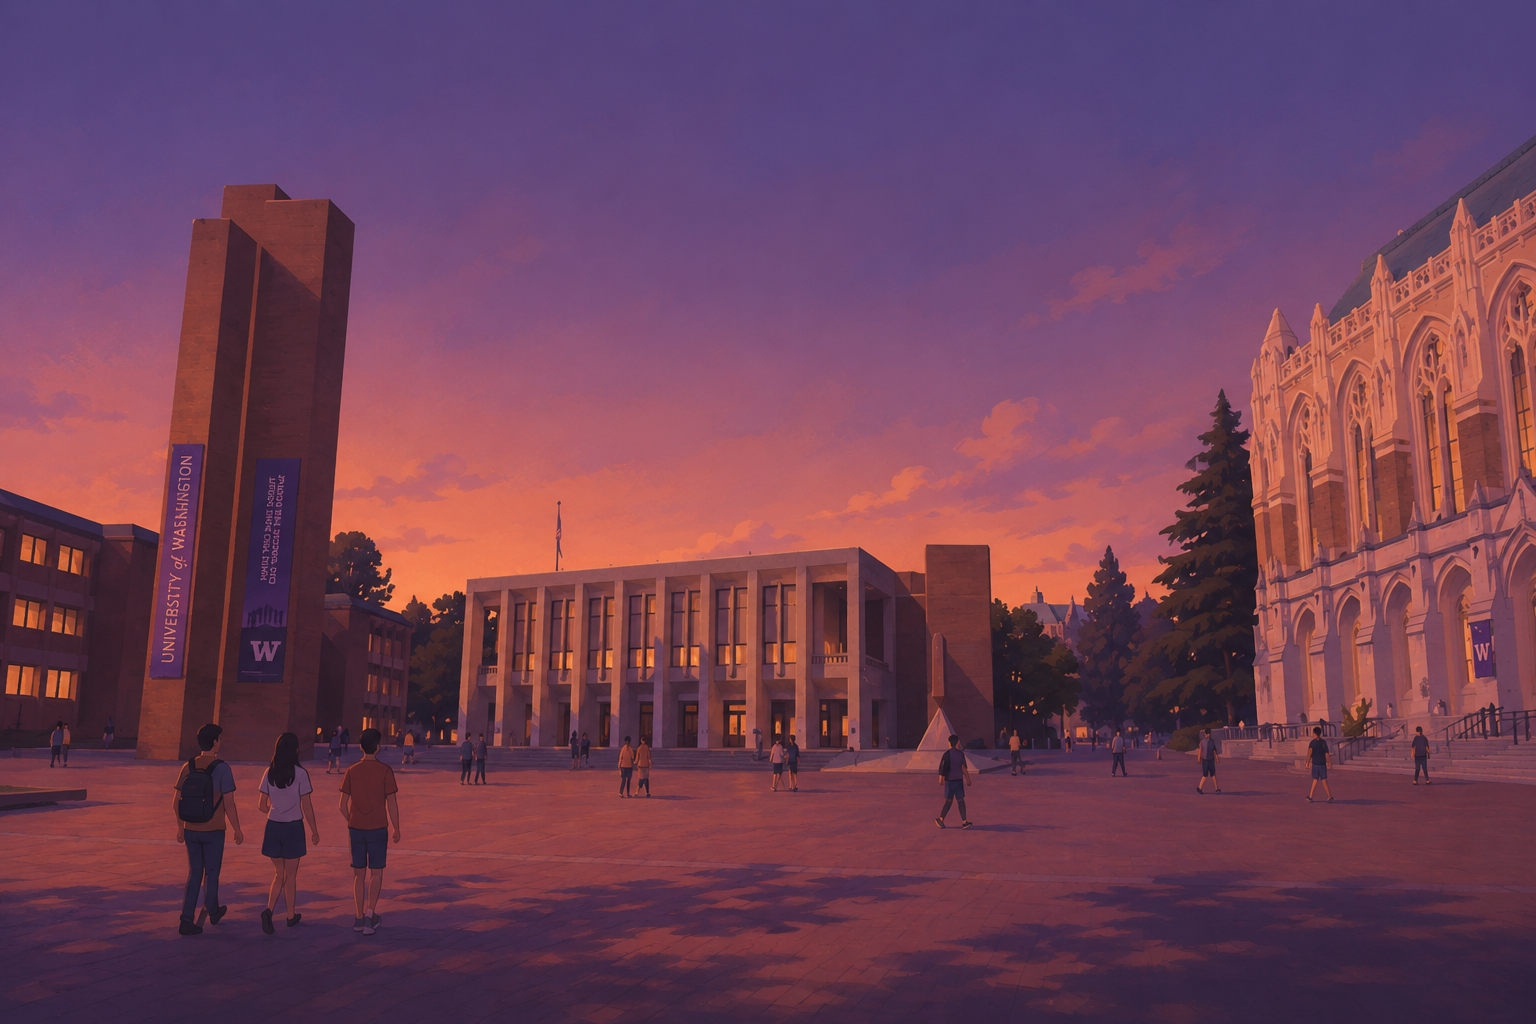
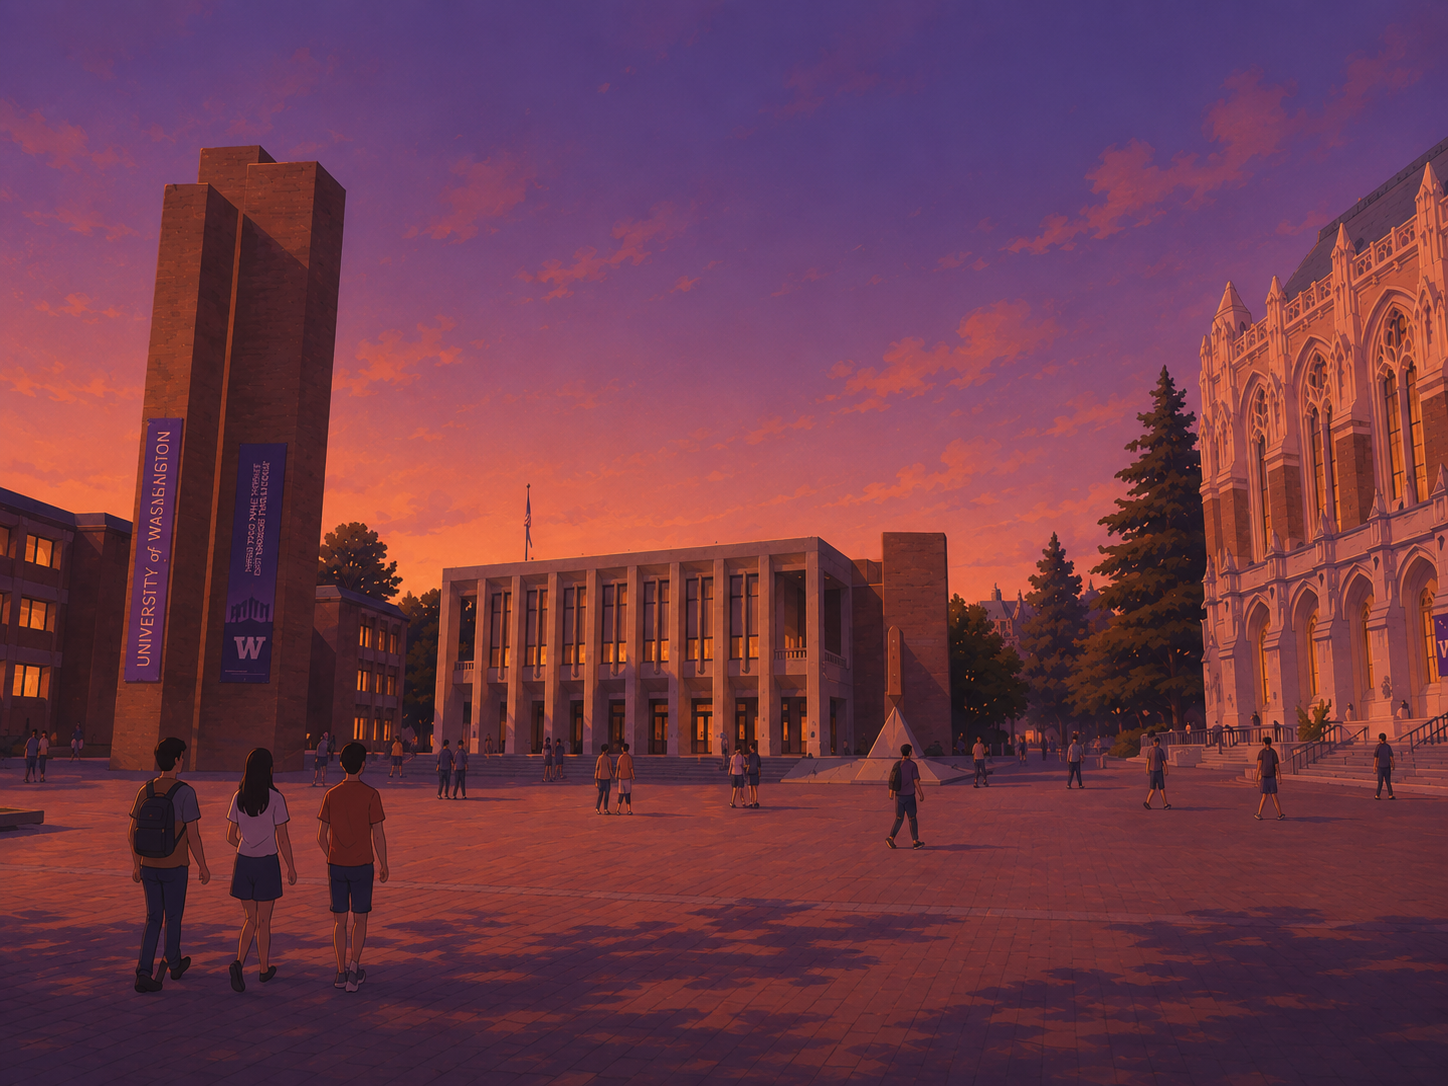
feat(Logistics): update background styling

diff --git a/src/components/sections/Logistics.tsx b/src/components/sections/Logistics.tsx
@@ -87,20 +87,22 @@ export default function Logistics() {
     return (
         <section
             id="logistics"
-            className="relative overflow-hidden border-y border-lantern-100/10 bg-night-900"
+            className="relative overflow-hidden border-y border-lantern-100/10"
         >
-            <div className="pointer-events-none absolute inset-0 bg-[radial-gradient(circle_at_12%_8%,rgb(244_92_141_/_13%),transparent_32%),radial-gradient(circle_at_86%_18%,rgb(251_184_72_/_10%),transparent_34%)]" />
+            {/* Background spanning full section */}
+            <OptimizedImage
+                src={redSquareDrawing}
+                alt=""
+                aria-hidden="true"
+                className="absolute inset-0 -z-30 h-full w-full object-cover object-center"
+            />
+            <div className="absolute inset-0 -z-20 bg-night-900/50" />
+            <div className="absolute inset-0 -z-10 bg-linear-to-b from-night-900/10 via-transparent to-night-900/85" />
+
+            <div className="pointer-events-none absolute inset-0 bg-[radial-gradient(circle_at_12%_8%,rgb(244_92_141/13%),transparent_32%),radial-gradient(circle_at_86%_18%,rgb(251_184_72/10%),transparent_34%)]" />
 
             <div className="relative">
-                <div className="relative isolate flex min-h-[72svh] items-center justify-center overflow-hidden px-4 py-24 text-center md:px-8">
-                    <OptimizedImage
-                        src={redSquareDrawing}
-                        alt=""
-                        aria-hidden="true"
-                        className="absolute inset-0 -z-30 h-full w-full object-cover"
-                    />
-                    <div className="absolute inset-0 -z-20 bg-night-900/72" />
-                    <div className="absolute inset-0 -z-10 bg-gradient-to-b from-night-900/45 via-night-900/62 to-night-900" />
+                <div className="relative flex min-h-[72svh] items-center justify-center px-4 py-24 text-center md:px-8">
 
                     <ScrollReveal className="mx-auto max-w-5xl" y={36} duration={0.75}>
                         <p className="mb-4 text-xs font-bold tracking-[0.28em] text-lantern-300/90 uppercase">
